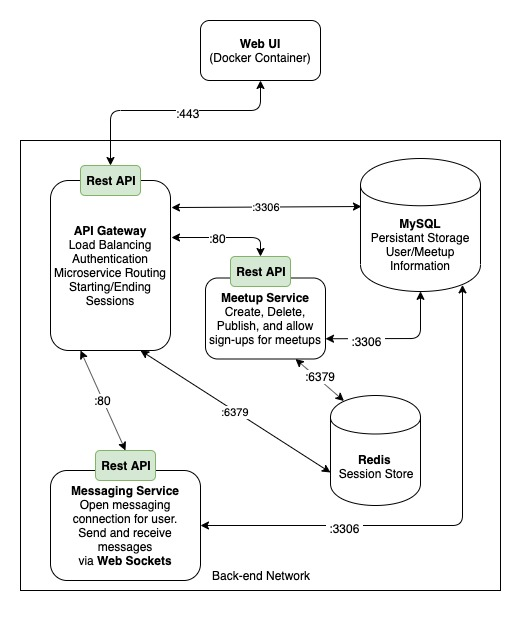
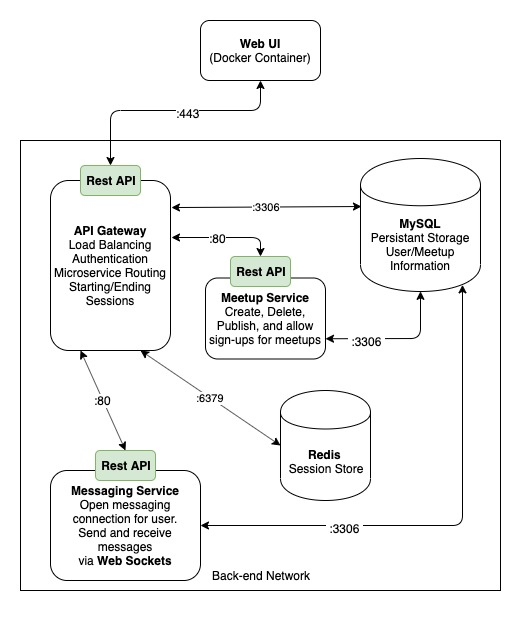
Update README and diagram

Changed region(s): [[0.3685, 0.5832, 0.7985, 0.8288], [0.3071, 0.5832, 0.3685, 0.6139], [0.7678, 0.7981, 0.7985, 0.8288]]

diff --git a/README.md b/README.md
@@ -18,29 +18,39 @@ Users will interact exclusively with our website/domain container, hosted by AWS
 
 | **Priority** | **User** | **Description** |
 |--------------|----------|-----------------|
-| P0 (High) | As a player | I want to message other music players to plan meetups and play music together |
-| P0 (High) | As a player | I want to create public meetup events that other music players can discover to organize group ensembles |
-| P0 (High) | As a user | I want to be able to create a user account |
-| P1 (Med) | As a user | I want to be able to share music/tabs with another player |
-| P2 (Low) | As a user | I want to have a calendar of my future events to organize all my music events |
-| P2 (Low) | As a user | I want to post public performances so that other users can come and watch |
+| P0 (High) | As a user | I want to be able to create a user account and log in |
+| P0 (High) | As a user | I want to create public meetup events that other music players can discover |
+| P0 (High) | As a user | I want to be able to view meetup events that other users have created |
+| P0 (High) | As a user | I want to chat with other music players to plan meetups and discuss music together |
+| P1 (Med) | As a user | I want to be able to join meetup events that are already created |
 
+**Story #1: I want to be able to create a user account and log in**
 
-**For each of your user stories, describe in 2-3 sentences what your technical implementation strategy is. Explicitly note in bold which technology you are using (if applicable):**
+We will create a **Dockerized** **Go** web microservice that acts as the server gateway. This web service will expose a REST API over port 443 that the Web UI can call. This gateway will facilitate user creation and authentication. 
 
-We will be using **web sockets** in order to allow users to message one another.
+The service will maintain a connection to our **MySQL** database over port 3306 in order to save user information. The service will also maintain a connection to our **Redis** database over port 6379 in order to create, track, and delete user sessions.
 
-We will be using a web microservice to handle the creation of meetup events, this microservice will run our gateway handler and our MySQL database, which will store meetup information.
+**Story #2: I want to create public meetup events that other music players can discover**
 
-We will be using a redis session store to allow users to login/logout. This will go from our front-end in html/css to our auth handler which is in Go.
+We will create a **Dockerized** **Go** web microservice for creating, storing, and deleting meetup events. This web service will expose a REST API over port 80 that the API Gateway can call. 
 
-We will be 
+The service will maintain a connection to our **MySQL** database over port 3306 in order to store meetup information.
 
+**Story #3: I want to be able to view meetup events that other users have created**
 
+As a continuation of the previous Go web 
 
-**Include a list available endpoints your application will provide and what is the purpose it serves. Ex. GET /driver/{id}**
+**Story #4: I want to chat with other music players to plan meetups and discuss music together**
 
-API Endpoints
+We will create a **Dockerized** **Node.js** web microservice to facilitate messaging between users. This web service will expose a REST API over port 80 that the API Gateway can call. This messaging service will be powered via **Web Sockets** and maintain a connection to our **MySQL** persistent database over port 3306 to maintain messaging history.
+
+**Story #5: I want to be able to join meetup events that are already created**
+
+This will be an update to our Meetup web microservice. That will implement a REST API PATCH update to add the user to the meetup.
+
+The service will maintain a connection to our **MySQL** database over port 3306 in order to store and update this information.
+
+## API Endpoints
 
 /v1/meetups/    (Homepage)
 * GET: Respond with a cardview of public meetups that users want to organize, only viewable if signed in
